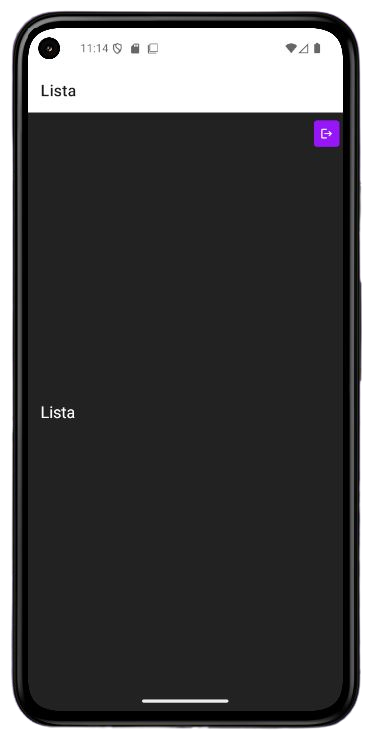
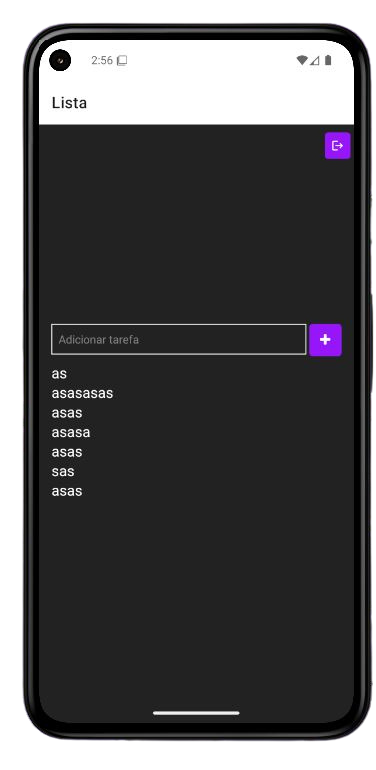
feature(lista) : adicionando tarefas e salvando no state

Changed region(s): [[0.03, 0.0, 1.0, 1.0]]

diff --git a/components/Login/Lista.js b/components/Login/Lista.js
@@ -1,34 +1,79 @@
-import { useContext } from "react"
-import { StyleSheet, Text, View, TouchableOpacity } from "react-native"
-import { ApplicationContext } from "../../contexts/ApplicationContext"
-import Icon from 'react-native-vector-icons/MaterialIcons';
+import { useState } from "react"
+import { StyleSheet, Text, View, TouchableOpacity, TextInput, FlatList } from "react-native"
+import FontAwesomeIcon from 'react-native-vector-icons/FontAwesome';
+import LogoutButton from "../LogoutButton";
 
-const Lista = () => {
+const list = () => {
+    const [task, setTask] = useState('')
+    const [list, setList] = useState([]);
 
-    const { loginOrLogoutUser } = useContext(ApplicationContext)
 
-    const logout = () => {
-        loginOrLogoutUser(false)
+    const addTAsk = () => {
+        if (task.trim() === '') return;
+        setList([...list, task]);
+        setTask('');
     }
 
     return (
         <View style={styles.containerList}>
 
-            <TouchableOpacity onPress={logout} style={styles.logoutButton}>
-                <Text style={styles.logoutText}>
-                    <Icon name="logout" size={16} color="#fff" />
-                </Text>
-            </TouchableOpacity>
+            <LogoutButton />
 
-            <Text style={styles.listaText}>
-                Lista
-            </Text>
+            <View >
+
+                <View style={{ display: 'flex', flexDirection: 'row', width: '100%', marginBottom: 1 }}>
+
+                    <TextInput
+                        placeholder="Adicionar tarefa"
+                        placeholderTextColor="gray"
+                        value={task}
+                        onChangeText={setTask}
+                        style={{
+                            width: '88%',
+                            borderWidth: 1,
+                            marginBottom: 10,
+                            padding: 8,
+                            borderColor: 'white',
+                            color: 'white',
+                        }} />
+
+                    <TouchableOpacity
+                        style={{
+                            backgroundColor: "#9810fa",
+                            display: 'flex',
+                            alignItems: 'center',
+                            justifyContent: 'center',
+                            borderRadius: 4,
+                            width: 40,
+                            height: 40,
+                            marginLeft: 4,
+                        }}
+                        onPress={addTAsk}   >
+                        <Text >
+                            <FontAwesomeIcon name="plus" size={16} color="#fff" />
+                        </Text>
+                    </TouchableOpacity>
+                </View>
+
+                <FlatList
+                    style={{
+                        maxHeight: 200,
+                        height: 200
+                    }}
+                    data={list}
+                    keyExtractor={(item, index) => index.toString()}
+                    renderItem={({ item }) =>
+                        <Text style={{ color: 'white', fontSize: 18 }}>
+                            {item}
+                        </Text>} />
+            </View>
+
         </View>
     )
 }
 
 
-export default Lista
+export default list
 
 const styles = StyleSheet.create({
     containerList: {
@@ -50,8 +95,5 @@ const styles = StyleSheet.create({
         color: 'white',
         fontWeight: 'bold',
     },
-    listaText: {
-        color: 'white',
-        fontSize: 20,
-    },
+
 })

diff --git a/components/LogoutButton.js b/components/LogoutButton.js
@@ -1,0 +1,34 @@
+import { StyleSheet, Text } from 'react-native'
+import { TouchableOpacity } from 'react-native'
+import { ApplicationContext } from '../contexts/ApplicationContext'
+import MaterialIcon from 'react-native-vector-icons/MaterialIcons';
+import { useContext } from 'react';
+
+const LogoutButton = () => {
+
+    const { loginOrLogoutUser } = useContext(ApplicationContext)
+
+    const logout = () => {
+        loginOrLogoutUser(false)
+    }
+
+    return <TouchableOpacity onPress={logout} style={styles.logoutButton}>
+        <Text style={styles.logoutText}>
+            <MaterialIcon name="logout" size={16} color="#fff" />
+        </Text>
+    </TouchableOpacity>
+}
+
+export default LogoutButton
+
+const styles = StyleSheet.create({
+    logoutButton: {
+        position: 'absolute',
+        top: 10,
+        right: 4,
+        padding: 8,
+        backgroundColor: '#9810fa',
+        borderRadius: 4,
+        rotate: '90deg'
+    },
+})

diff --git a/App.js b/App.js
@@ -26,16 +26,19 @@ function Routes() {
   return (
     <Stack.Navigator>
 
-      {!authUser && <Stack.Screen options={{
-        animation: 'slide_from_left',
-        transitionSpec: {
-          open: { animation: 'timing', config: { duration: 15 } }
-        }
-      }} name="Login" component={Login} />}
+      {authUser && <Stack.Screen
+        options={{
+          animation: 'slide_from_left',
+        }}
+        name="Login"
+        component={Login} />}
 
-      {authUser && <Stack.Screen options={{
-        animation: 'slide_from_right',
-      }} name="Lista" component={Lista} />}
+      {!authUser && <Stack.Screen
+        options={{
+          animation: 'slide_from_right',
+        }}
+        name="Lista"
+        component={Lista} />}
 
     </Stack.Navigator>
   );

diff --git a/README.md b/README.md
@@ -60,5 +60,5 @@ A ideia é **recriar** o mesmo projeto que eu já havia feito anteriormente usan
 1. Clone o repositório:
 
 ```bash
-git clone <link-do-repositório>
+git clone <https://github.com/matheuscassioli/react-native-crud>
 ```
